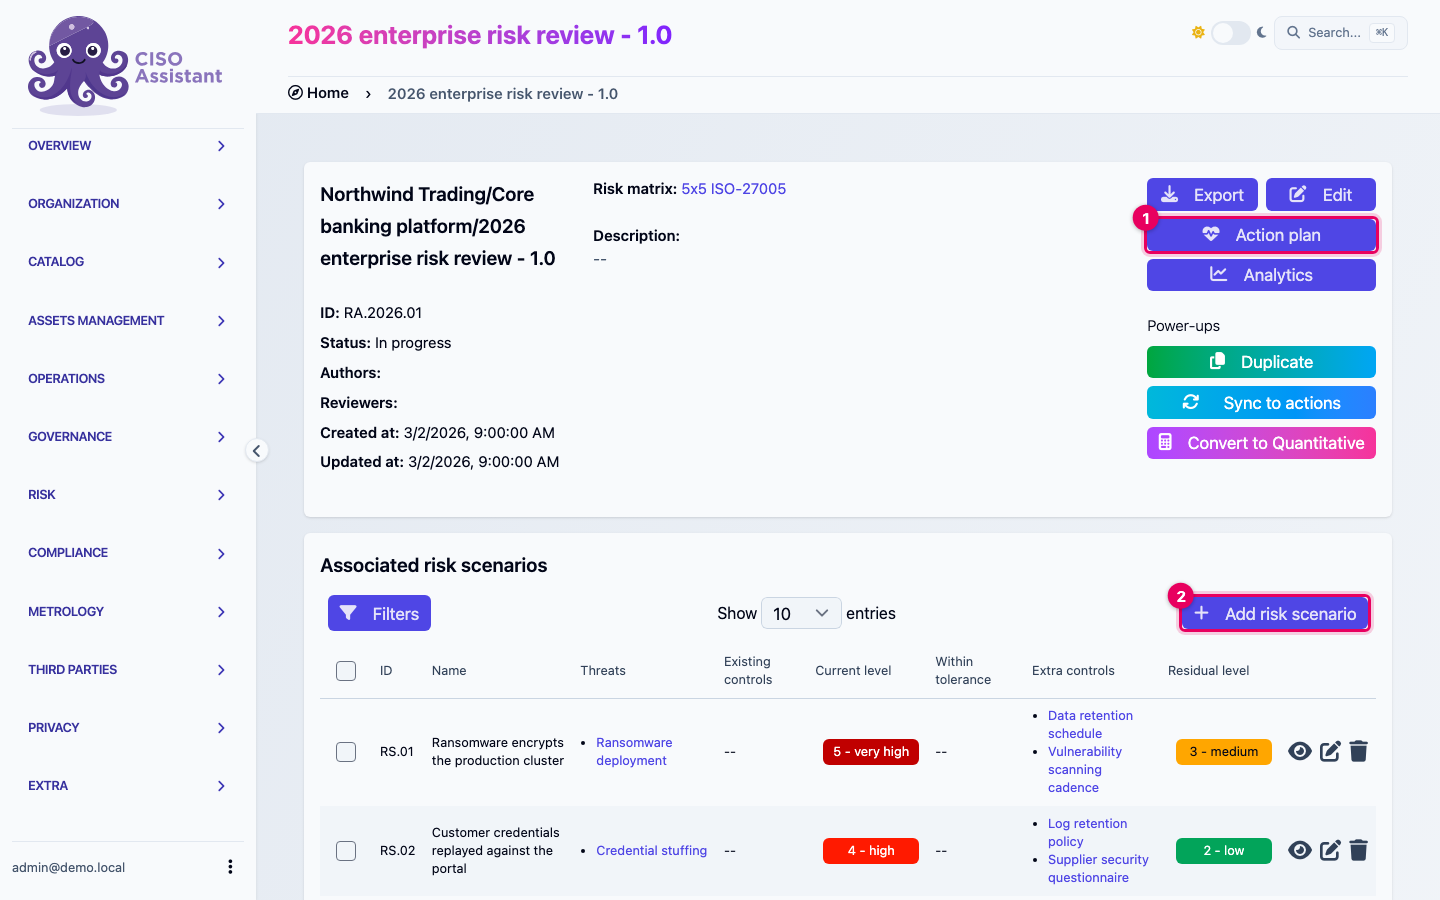
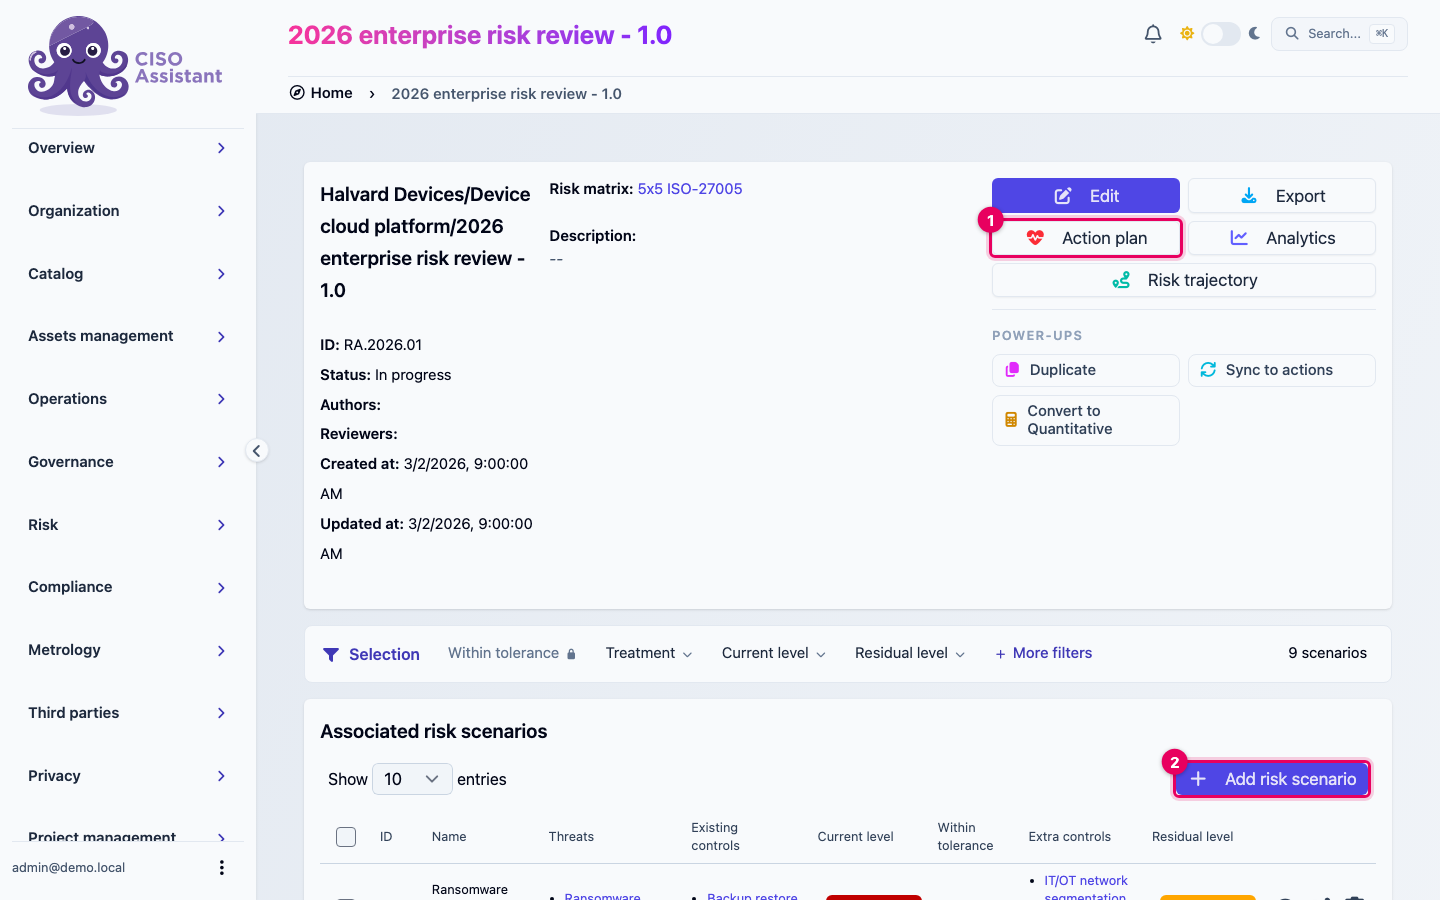
docs: document the scenario selection

diff --git a/frontend/tests/docs-screenshots/manifest.ts b/frontend/tests/docs-screenshots/manifest.ts
@@ -44,6 +44,61 @@ function openDetail(model: string, refId: string) {
 	};
 }
 
+/** Tick one option of a scenario selection filter, the way a reader would. */
+async function pickScenarios(page: Page, filter: string, option: string) {
+	await page.getByTestId(`selection-filter-${filter}`).click();
+	await page.getByTestId('selection-option').filter({ hasText: option }).first().click();
+	await page.keyboard.press('Escape');
+	await page.waitForLoadState('networkidle');
+	// Closing hands focus back to the filter: drop its focus ring from the shot.
+	await page.evaluate(() => (document.activeElement as HTMLElement | null)?.blur());
+}
+
+const HEADER_CLEARANCE = 176;
+
+/**
+ * The app scrolls an inner container, not the document, so a viewport shot
+ * stays on the page header unless that container is moved. Brings `target`
+ * just under the sticky header.
+ */
+async function scrollUnderHeader(target: Locator, top = HEADER_CLEARANCE) {
+	await target.waitFor();
+	await target.evaluate((el, top) => {
+		let scroller = el.parentElement;
+		while (
+			scroller &&
+			!(
+				scroller.scrollHeight > scroller.clientHeight + 4 &&
+				/auto|scroll/.test(getComputedStyle(scroller).overflowY)
+			)
+		) {
+			scroller = scroller.parentElement;
+		}
+		const box = scroller ?? document.scrollingElement;
+		if (box) box.scrollTop += el.getBoundingClientRect().top - top;
+	}, top);
+}
+
+/**
+ * A clip taller than the viewport is stitched from several scrolls, and the
+ * sticky page header lands in the middle of it. Grow the viewport until
+ * `target` fits under that header in one piece.
+ */
+async function fitUnderHeader(page: Page, target: Locator) {
+	await target.waitFor();
+	const { width, height } = page.viewportSize() ?? { width: 1440, height: 900 };
+	const needed = Math.ceil((await target.boundingBox())?.height ?? 0) + 2 * HEADER_CLEARANCE;
+	if (needed > height) await page.setViewportSize({ width, height: needed });
+	await scrollUnderHeader(target);
+}
+
+/** RA.2026.01 with its scenarios narrowed to one current risk level. */
+async function openSelection(page: Page) {
+	await openDetail('risk-assessments', 'RA.2026.01')(page);
+	// The full label: "high" alone also matches "5 - very high".
+	await pickScenarios(page, 'current_level', '4 - high');
+}
+
 export const shots: Shot[] = [
 	{
 		slug: 'analytics-overview',
@@ -93,7 +148,15 @@ export const shots: Shot[] = [
 		slug: 'risk-scenarios-table',
 		url: '/risk-assessments',
 		usedBy: ['concepts/risk-assessments.md'],
-		act: openDetail('risk-assessments', 'RA.2026.01'),
+		act: async (page) => {
+			await openDetail('risk-assessments', 'RA.2026.01')(page);
+			await fitUnderHeader(
+				page,
+				page
+					.getByRole('heading', { name: 'Associated risk scenarios' })
+					.locator('xpath=ancestor::div[contains(@class,"card")][1]')
+			);
+		},
 		clip: (page) =>
 			page
 				.getByRole('heading', { name: 'Associated risk scenarios' })
@@ -110,6 +173,66 @@ export const shots: Shot[] = [
 			{ at: page.getByRole('link', { name: 'Action plan' }).first(), label: '1' },
 			{ at: page.getByRole('button', { name: 'Add risk scenario' }).first(), label: '2' }
 		]
+	},
+	{
+		// Selection applied: the bar, its counter and the narrowed table.
+		slug: 'scenario-selection-bar',
+		url: '/risk-assessments',
+		usedBy: ['features/scenario-selection.md'],
+		act: async (page) => {
+			await openSelection(page);
+			await scrollUnderHeader(page.getByTestId('scenario-selection-bar'));
+		}
+	},
+	{
+		// A filter open, for the per-option counts.
+		slug: 'scenario-selection-filter',
+		url: '/risk-assessments',
+		usedBy: ['features/scenario-selection.md'],
+		act: async (page) => {
+			await openSelection(page);
+			await scrollUnderHeader(page.getByTestId('scenario-selection-bar'));
+			await page.getByTestId('selection-filter-treatment').click();
+			await page.getByTestId('selection-option').first().waitFor();
+		}
+	},
+	{
+		slug: 'scenario-selection-matrix',
+		url: '/risk-assessments',
+		usedBy: ['features/scenario-selection.md'],
+		// The badge and the current risk matrix: the residual one sits below.
+		act: async (page) => {
+			await openSelection(page);
+			await scrollUnderHeader(
+				page
+					.getByTestId('matrix-selection-badge')
+					.locator('xpath=ancestor::div[contains(@class,"card")][1]')
+			);
+		}
+	},
+	{
+		slug: 'scenario-selection-export',
+		url: '/risk-assessments',
+		usedBy: ['features/scenario-selection.md'],
+		act: async (page) => {
+			await openSelection(page);
+			await page.getByTestId('export-button').click();
+			await page.getByTestId('export-apply-selection').waitFor();
+		},
+		clip: (page) => page.getByTestId('export-modal')
+	},
+	{
+		// Reached through the button, which is what carries the selection over.
+		slug: 'scenario-selection-action-plan',
+		url: '/risk-assessments',
+		usedBy: ['features/scenario-selection.md', 'features/action-plans.md'],
+		act: async (page) => {
+			await openSelection(page);
+			await page.getByTestId('action-plan-button').click();
+			await page.getByTestId('link-type-toggle').waitFor();
+			// Folded, the budget overview leaves room for the measures table.
+			await page.getByRole('button', { name: 'Budget overview' }).click();
+		}
 	},
 	{
 		slug: 'applied-controls-full',

diff --git a/product-docs/features/scenario-selection.md b/product-docs/features/scenario-selection.md
@@ -1,0 +1,119 @@
+---
+description: Narrow a risk assessment to the scenarios you care about, and keep that selection across the scenario table, the matrices, the action plan and the exports
+---
+
+# Scenario selection
+
+The **Selection** bar filters the risk scenarios of a [risk assessment](../concepts/risk-assessments.md). The scenarios it keeps are the ones every view of the assessment then works with: the scenario table, the risk matrices, the [action plan](action-plans.md) and the exports.
+
+A typical use: select the scenarios that are not within tolerance, review them on the matrix, open the action plan to see the measures that treat them, and export a report limited to that set.
+
+## Where to find it
+
+Open a risk assessment. The **Selection** bar sits between the assessment details and **Associated risk scenarios**. It is the only place to filter the scenario table, which has no filters of its own.
+
+The same bar is at the top of the assessment's action plan.
+
+<figure><img src="../.gitbook/assets/scenario-selection-bar.png" alt=""><figcaption><p>The Selection bar with <strong>Current level</strong> set to <em>4 - high</em>: 3 of 9 scenarios are kept, and <strong>Associated risk scenarios</strong> lists only those three</p></figcaption></figure>
+
+## Selecting scenarios
+
+Click a filter, tick one or more values, and the page updates straight away. Values ticked in the same filter widen the selection (a scenario matching any of them is kept). Different filters narrow it (a scenario has to match all of them). **Within tolerance** is the exception: it takes one value, and ticking the other one replaces it.
+
+| Filter | Keeps scenarios by |
+|---|---|
+| **Within tolerance** | Whether the current risk level is at or below the assessment's risk tolerance |
+| **Treatment** | Treatment option |
+| **Current level** | Current risk level, on the assessment's risk matrix |
+| **Residual level** | Residual risk level |
+| **Owners** | Scenario owner |
+| **Threats** | Linked threat |
+| **Assets** | Linked asset |
+| **Qualifications** | Qualification |
+| **Labels** | Label |
+
+The first four are always on the bar. The others are under **More filters** and move onto the bar once they are in use. A filter with nothing to choose from in this assessment is left out: **Threats** does not appear if no scenario has a threat.
+
+Each value comes with the number of scenarios it would keep, given the other filters already applied. A value that would keep none is greyed out.
+
+<figure><img src="../.gitbook/assets/scenario-selection-filter.png" alt=""><figcaption><p>The <strong>Treatment</strong> filter, open. Each value shows how many of the scenarios already selected it would keep</p></figcaption></figure>
+
+**Owners**, **Threats**, **Assets**, **Qualifications** and **Labels** can hold many values. Their list loads 25 values at a time, with **Load more** at the bottom, and gets a search box when there are more than 8.
+
+An applied filter turns into a pill showing its values. The × on the pill removes the filter, and **Clear** inside an open filter unticks its values.
+
+On the right of the bar:
+
+- the counter, for example _3 of 9 scenarios_
+- **Copy link**, which copies the address of the page with the selection in it
+- **Clear selection**, which goes back to all scenarios
+
+If nothing matches, the bar says **No scenario matches the selection**.
+
+{% hint style="info" %}
+**Within tolerance** needs a risk tolerance on the assessment. Without one the filter shows a lock, and opening it gives a **Set the threshold** link to the assessment's edit page.
+{% endhint %}
+
+## What the selection changes
+
+### On the risk assessment
+
+- **Associated risk scenarios** lists the selected scenarios only.
+- **Risk matrix view** places the selected scenarios only. A badge above the matrices gives the count and how many scenarios are hidden.
+- The **Action plan** button carries a small badge with the number of selected scenarios, and opens the action plan with the same selection.
+- **Export** offers to apply the selection (see [Exports](#exports)).
+
+The assessment's **Analytics** and **Risk trajectory** pages do not follow the selection. They always cover every scenario.
+
+<figure><img src="../.gitbook/assets/scenario-selection-matrix.png" alt=""><figcaption><p><strong>Risk matrix view</strong> with the selection applied: the three selected scenarios on the <strong>Current risk</strong> matrix, and the badge counting the six that are hidden</p></figcaption></figure>
+
+### On the action plan
+
+The action plan keeps the measures linked to at least one selected scenario. The bar is there too, so the selection can be changed without going back.
+
+The switch above the table decides which links count:
+
+| Switch | Shows |
+|---|---|
+| **To implement** | Extra controls of the selected scenarios. This is the default. |
+| **Existing** | Their existing controls |
+| **All** | Both |
+
+The **Matching scenarios** column lists the selected scenarios each measure is linked to. When a measure also treats scenarios outside the selection, the column adds _+n outside the selection_; hover it to see which ones.
+
+The budget overview, **Analytics** and **Flash mode** follow the selection and the switch.
+
+<figure><img src="../.gitbook/assets/scenario-selection-action-plan.png" alt=""><figcaption><p>The action plan of the same assessment, on the same selection. <strong>Matching scenarios</strong> names the selected scenarios each measure is linked to</p></figcaption></figure>
+
+### Exports
+
+With a selection applied, the **Export** dialog of the risk assessment shows **Apply the selection**, ticked, with the count and the filters in use. Leave it ticked and the exports contain the selected scenarios and the measures linked to them. Untick it to export the whole assessment.
+
+<figure><img src="../.gitbook/assets/scenario-selection-export.png" alt=""><figcaption><p><strong>Export options</strong> with <strong>Apply the selection</strong> ticked</p></figcaption></figure>
+
+| Export | Format | With the selection applied |
+|---|---|---|
+| **Risk report** | PDF | Selected scenarios only. A **Scenario selection** box lists the filters, and every page footer carries the count. |
+| **Scenarios data** | CSV | Selected scenarios only. The file name carries `selection`. |
+| **Scenarios workbook** | Excel | Selected scenarios only, plus a **Selection** sheet with the count and the filters |
+| **Status-grouped report** | PDF | Measures of the selected scenarios, with the same box and footer |
+| **Controls workbook** | Excel | Measures of the selected scenarios, plus the **Selection** sheet |
+
+The two action plan exports contain the measures **To implement**, the default of the action plan page.
+
+A report built from a selection always says so, so a partial export cannot be mistaken for the full register.
+
+## Sharing and coming back
+
+The selection is part of the page address. **Copy link** gives a link that opens the assessment, or its action plan, on the same selection for anyone who can see the assessment.
+
+Your browser also remembers the last selection of each assessment. Opening the assessment again restores it, with the message **Selection restored from your last visit.** and a **Start from all scenarios** button. A link that carries its own selection takes precedence over the remembered one.
+
+If a selection refers to something that has since been deleted, a threat for instance, that filter is ignored and shown as a warning pill you can dismiss.
+
+## Related
+
+- [Risk assessments](../concepts/risk-assessments.md)
+- [Action plans](action-plans.md)
+- [Risk trajectory](risk-trajectory.md)
+- [Working with tables](working-with-tables.md)

diff --git a/product-docs/features/action-plans.md b/product-docs/features/action-plans.md
@@ -32,6 +32,17 @@ The action-plan table is built on the standard model table, with a column set tu
 
 The point is that you can drive prioritisation conversations from this page without exporting anything — sort by priority, filter by status, look at what's overdue, reassign to a different owner, all in place.
 
+### On a risk assessment
+
+The action plan of a risk assessment has two controls of its own, above the table:
+
+- The **Selection** bar narrows the plan to the measures linked to the risk scenarios you select. It is the same bar as on the risk assessment page, and a selection made there follows you here. See [Scenario selection](scenario-selection.md).
+- A three-way switch chooses which measures are listed: **To implement** (the extra controls of the scenarios, shown by default), **Existing** (their existing controls) or **All**.
+
+The budget overview, **Analytics** and **Flash mode** follow both.
+
+<figure><img src="../.gitbook/assets/scenario-selection-action-plan.png" alt=""><figcaption><p>An action plan limited to the scenarios whose <strong>Current level</strong> is <em>4 - high</em>, showing the measures <strong>To implement</strong></p></figcaption></figure>
+
 ## Budget aggregation
 
 At the top of every action-plan page sits the **budget overview** — a rolled-up summary of the [annualised cost](../concepts/applied-controls.md#financial-tracking) of every control in the plan, broken down across multiple dimensions:
@@ -69,10 +80,13 @@ The action plan can be exported for offline review or for handing to stakeholder
 
 PDF exports are templated — they include the assessment metadata at the top and the action-plan table styled for print. Excel and CSV exports are the raw control rows, suitable for further work in a spreadsheet.
 
+On a risk assessment, the PDF and Excel exports list the measures **To implement**, and can be limited to the scenarios of a [selection](scenario-selection.md#exports).
+
 ## Related
 
 - [Applied controls](../concepts/applied-controls.md) — the underlying object and its **financial tracking** mechanics (`build`/`run` cost, amortisation, annual cost).
 - [Flash mode](flash-mode.md) — bulk authoring of controls from inside an action plan.
 - [Kanban mode](kanban-mode.md) — the visual swim-lane alternative for monitoring the same set of controls by status.
 - [Audits](../concepts/audits.md), [Risk assessments](../concepts/risk-assessments.md), [Findings binders](../concepts/findings-assessments.md), [EBIOS RM](../concepts/ebios-rm.md), [Quantitative risk studies](../concepts/quantitative-risk-studies.md) — the assessments that expose an action plan.
+- [Scenario selection](scenario-selection.md) — narrows a risk assessment and its action plan to chosen scenarios.
 - [Risk trajectory](risk-trajectory.md) — turns the ETAs of a risk assessment's extra controls into a projected date for each scenario's residual risk.

diff --git a/product-docs/concepts/risk-assessments.md b/product-docs/concepts/risk-assessments.md
@@ -43,6 +43,8 @@ In CISO Assistant, **risk treatment is combined with the risk assessment** rathe
 
 Scenarios can be defined directly from the risk-assessment view or separately via the scenarios view. The same scenario can be reused across multiple studies.
 
+On the assessment page, the **Selection** bar above the scenario table narrows the assessment to the scenarios you choose, for example those that are not within tolerance. The matrices, the action plan and the exports then follow the same selection. See [Scenario selection](../features/scenario-selection.md).
+
 ## Risk levels: inherent, current, residual
 
 CISO Assistant tracks three risk levels for each scenario, reflecting where the organisation stands along the treatment journey:
@@ -74,3 +76,4 @@ Most organisations define an official matrix to be used for all risk assessments
 - [Vocabulary → Threat / Risk assessment](../introduction/vocabulary.md)
 - [Security exceptions](security-exceptions.md)
 - [Risk trajectory](../features/risk-trajectory.md)
+- [Scenario selection](../features/scenario-selection.md)

diff --git a/product-docs/introduction/vocabulary.md b/product-docs/introduction/vocabulary.md
@@ -148,6 +148,7 @@ A glossary of the terms used in CISO Assistant. Where a user-facing term differs
 
 ## S
 
+- **Scenario selection** — The risk scenarios kept by the **Selection** bar of a risk assessment. The scenario table, the matrices, the action plan and the exports all work on that subset. See [Scenario selection](../features/scenario-selection.md).
 - **Security advisory** — A catalogued security warning published by a vendor or CERT (e.g. CVE entries). Linked to vulnerabilities and affected assets.
 - **Security exception** — A documented, time-bound deviation from a requirement, control or risk treatment, with owners and an expiration date. See [Security exceptions](../concepts/security-exceptions.md).
 - **Severity** — The shared ordinal scale used to qualify vulnerabilities, incidents, and findings: undefined / info / low / medium / high / critical. Drives SLA escalation and visual emphasis in dashboards.

diff --git a/product-docs/SUMMARY.md b/product-docs/SUMMARY.md
@@ -215,6 +215,7 @@
 * [Control Plan](features/control-plan.md)
 * [Action plans](features/action-plans.md)
 * [Risk trajectory](features/risk-trajectory.md)
+* [Scenario selection](features/scenario-selection.md)
 * [Working with tables](features/working-with-tables.md)
 * [Custom fields](features/custom-fields.md)
 * [Workflow builder](features/workflows/README.md)
